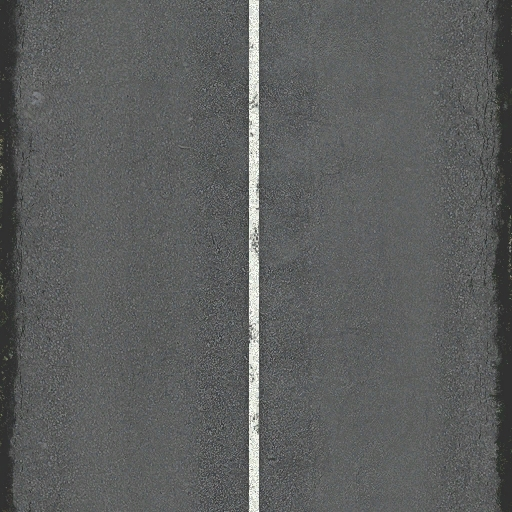
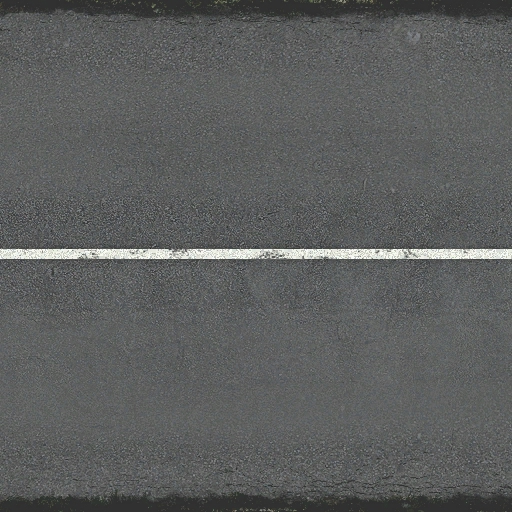
horizontal orientation

Changed region(s): [[0.0, 0.0, 1.0, 1.0], [0.875, 0.7188, 0.9062, 0.7812], [0.75, 0.5625, 0.7812, 0.5938]]

diff --git a/www/js/game/road.js b/www/js/game/road.js
@@ -4,32 +4,31 @@ class Road {
    constructor(phaserGame) {
       let g = phaserGame.add.group();
 
+      const height = 380.0;
+      const width = 800.0;
       let u = phaserGame.add.sprite(0, 0, 'road');
-      u.scale.x = 380.0 / u.width;
-      u.scale.y = 600.0 / u.height;
-      u.y = -u.height;
-      //this.sprite = s;
+      u.scale.x = width / u.width;
+      u.scale.y = height / u.height;
+      u.x = 0;
       let v = phaserGame.add.sprite(0, 0, 'road');
-      v.scale.x = 380.0 / v.width;
-      v.scale.y = 600.0 / v.height;
-      v.y = u.height;
-
+      v.scale.x = width / v.width;
+      v.scale.y = height / v.height;
+      u.x = v.width;
 
       this.sprites = [u, v];
-
    }
 
    update() {
       let u = this.sprites[0];
       let v = this.sprites[1];
 
-      if (u.y >= 0) {
-         v.y = u.y - u.height;
+      if (v.x <= 0) {
+         u.x = v.x + u.width;
          this.sprites[0] = v;
          this.sprites[1] = u;
       }
 
-      u.y += 5;
-      v.y += 5;
+      u.x -= 5;
+      v.x -= 5;
    }
 }

diff --git a/www/js/game/player.js b/www/js/game/player.js
@@ -2,20 +2,20 @@
 
 class Player {
 	constructor(phaserGame) {
-		this.val = 10;
-		this.targetX = 100;
+		this.vel = 10; // скорость
+		this.targetY = 100;
 		this.sprite = phaserGame.add.sprite(100, 450, 'car');
 		this.sprite.anchor.set(0.5);
 	}
 
-	setTargetDirection(x) {
-		this.targetX = x;
+	setTargetDirection(y) {
+		this.targetY = y;
 	}
 
 	update() {
-		if (this.sprite.x != this.targetX) {
-			let d = this.targetX - this.sprite.x;
-			this.sprite.x += Math.sign(d) * Math.min(Math.abs(d), this.val);
+		if (this.sprite.y != this.targetY) {
+			let d = this.targetY - this.sprite.y;
+			this.sprite.y += Math.sign(d) * Math.min(Math.abs(d), this.vel);
 		}
 	}
 }

diff --git a/www/js/game/game.js b/www/js/game/game.js
@@ -53,8 +53,8 @@ class Game {
 	}
 
 	update() {
-		let x = Math.max(10, Math.min(370, this.pg.input.x));
-		this.player.setTargetDirection(x);
+		let y = Math.max(15, Math.min(365, this.pg.input.y));
+		this.player.setTargetDirection(y);
 
 		this.player.update();
 		this.playerRoad.update();
@@ -64,7 +64,7 @@ class Game {
 	}
 
 	render() {
-	   this.pg.debug.cameraInfo(this.pg.camera, 8, 16);
+	   this.pg.debug.cameraInfo(this.pg.camera, 8, 500);
 	}
 
 	onInputDown(pointer) {
